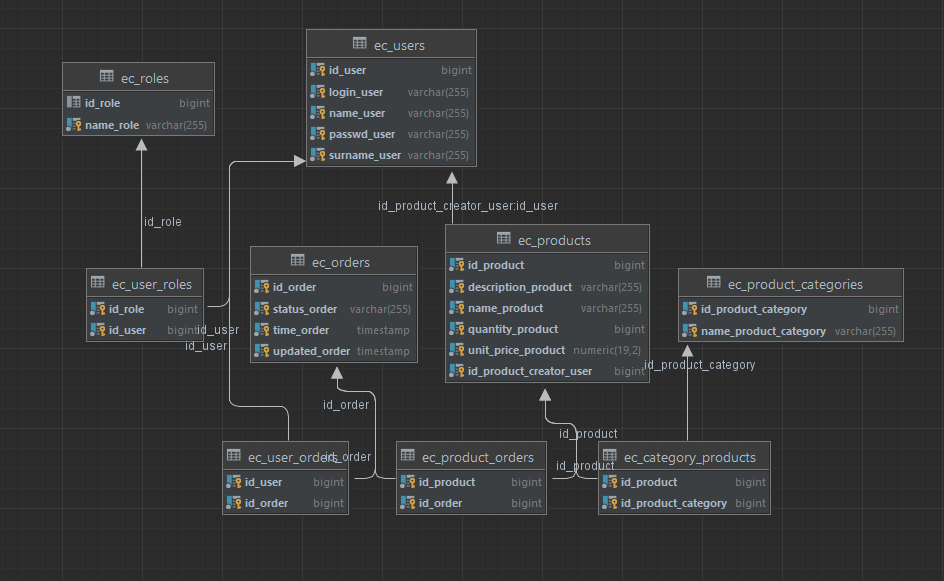
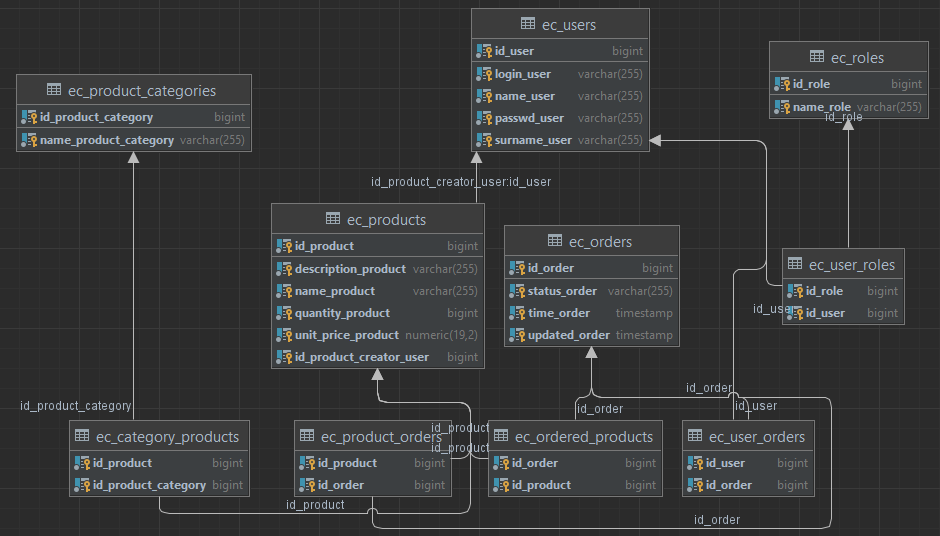
erd and readme updated

diff --git a/readme.md b/readme.md
@@ -25,7 +25,7 @@ powered By: Infected Mushroom - Saeed ;)
 **USER/ADMIN**
 - logado 
   - deverão conseguir visualizar todos os produtos de acordo com categoria. exemplo: products/all-categories
-  - deverá conseguir visualizar todos os produtos de acordo com categoria(s) filtrada(s). exemplo: products/all-categories/{ids}
+  - deverá conseguir visualizar todos os produtos de acordo com categoria(s) filtrada(s). exemplo: products/all-categories/{categoryIds}
 - deslogado
   - deverão visualizar apenas home
 
@@ -47,6 +47,7 @@ powered By: Infected Mushroom - Saeed ;)
     - JWT
 
 ### TODO
+- [ ] Filter by product category
 - [ ] Fix Deletion (Remaining elements)
 - [ ] Replace all answers and requests with DTOs
 - [ ] Change table ordered products to @ElementCollection
@@ -55,5 +56,4 @@ powered By: Infected Mushroom - Saeed ;)
 - [ ] remover @Query dos repositories e colocar no ORM.xml namedQuery    
 - [ ] Campo de busca de produto com sugestões
 - [ ] Cancel Order -- All orders must keep registerer!
-- [ ] FrontPage
 - [ ] Texto das exceções deve ficar em arquivo separado ou constante (Classe separada)
